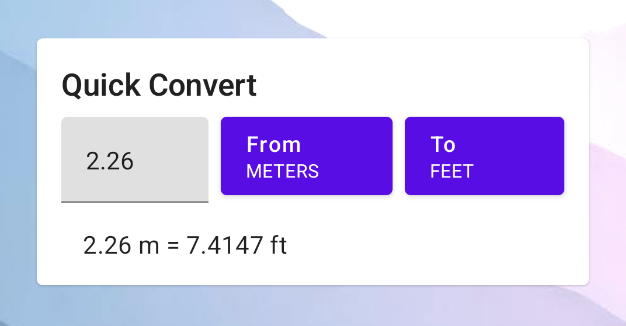
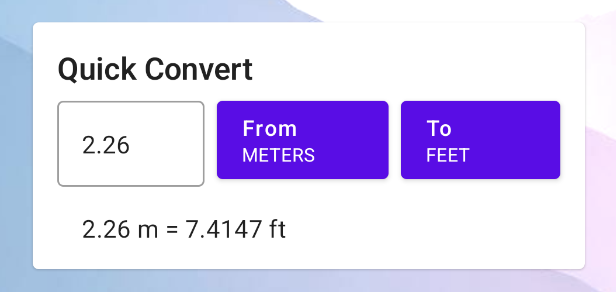
modified to use an outlined text field for the quick convert card

diff --git a/youkon/YouKon/src/main/java/com/dcsim/youkon/android/views/MeasurementTextField.kt b/youkon/YouKon/src/main/java/com/dcsim/youkon/android/views/MeasurementTextField.kt
@@ -2,7 +2,7 @@ package com.dcsim.youkon.android.views
 
 import androidx.compose.foundation.layout.width
 import androidx.compose.foundation.text.KeyboardOptions
-import androidx.compose.material.TextField
+import androidx.compose.material.OutlinedTextField
 import androidx.compose.runtime.Composable
 import androidx.compose.runtime.getValue
 import androidx.compose.runtime.mutableStateOf
@@ -18,7 +18,7 @@ import com.dcsim.youkon.Measurement
 fun MeasurementTextField(measurement: Measurement, updateMeasurement: () -> Unit) {
     var text by remember { mutableStateOf(TextFieldValue(measurement.value.toString())) }
 
-    TextField(
+    OutlinedTextField(
         value = text,
         keyboardOptions = KeyboardOptions(keyboardType = KeyboardType.Number),
         singleLine = true,

diff --git a/youkon/YouKon/src/main/java/com/dcsim/youkon/android/views/QuickConvertCard.kt b/youkon/YouKon/src/main/java/com/dcsim/youkon/android/views/QuickConvertCard.kt
@@ -71,7 +71,7 @@ fun QuickConvertCard() {
             // The display of the measurement after conversion
             Text("$sourceText = $convertedText",
                 style = MaterialTheme.typography.subtitle1,
-                modifier = Modifier.padding(top = 8.dp, start = 14.dp)
+                modifier = Modifier.padding(top = 8.dp, start = 16.dp)
             )
         }
     }
